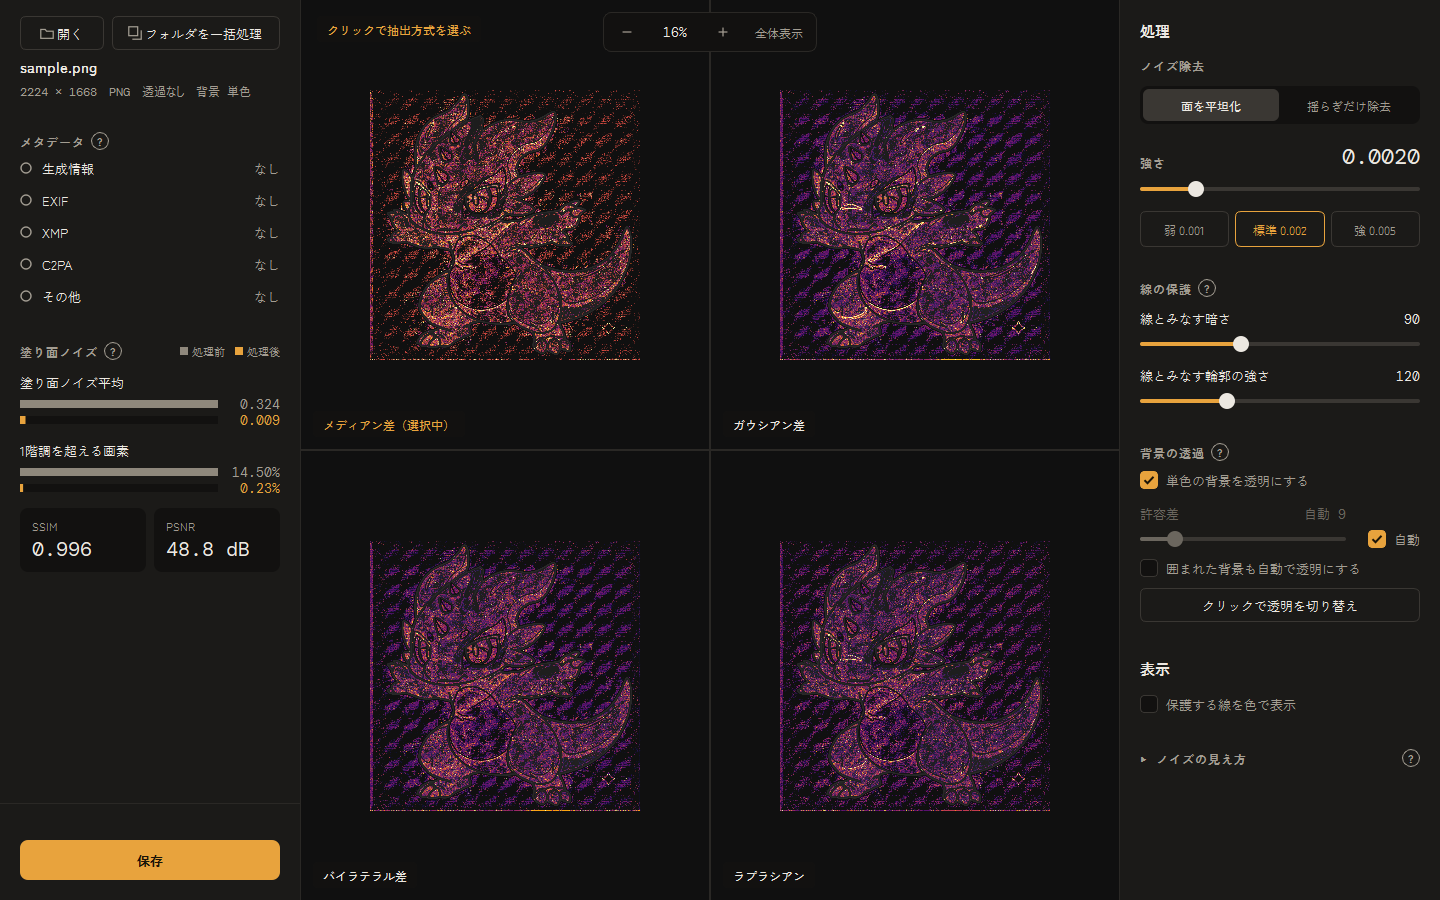
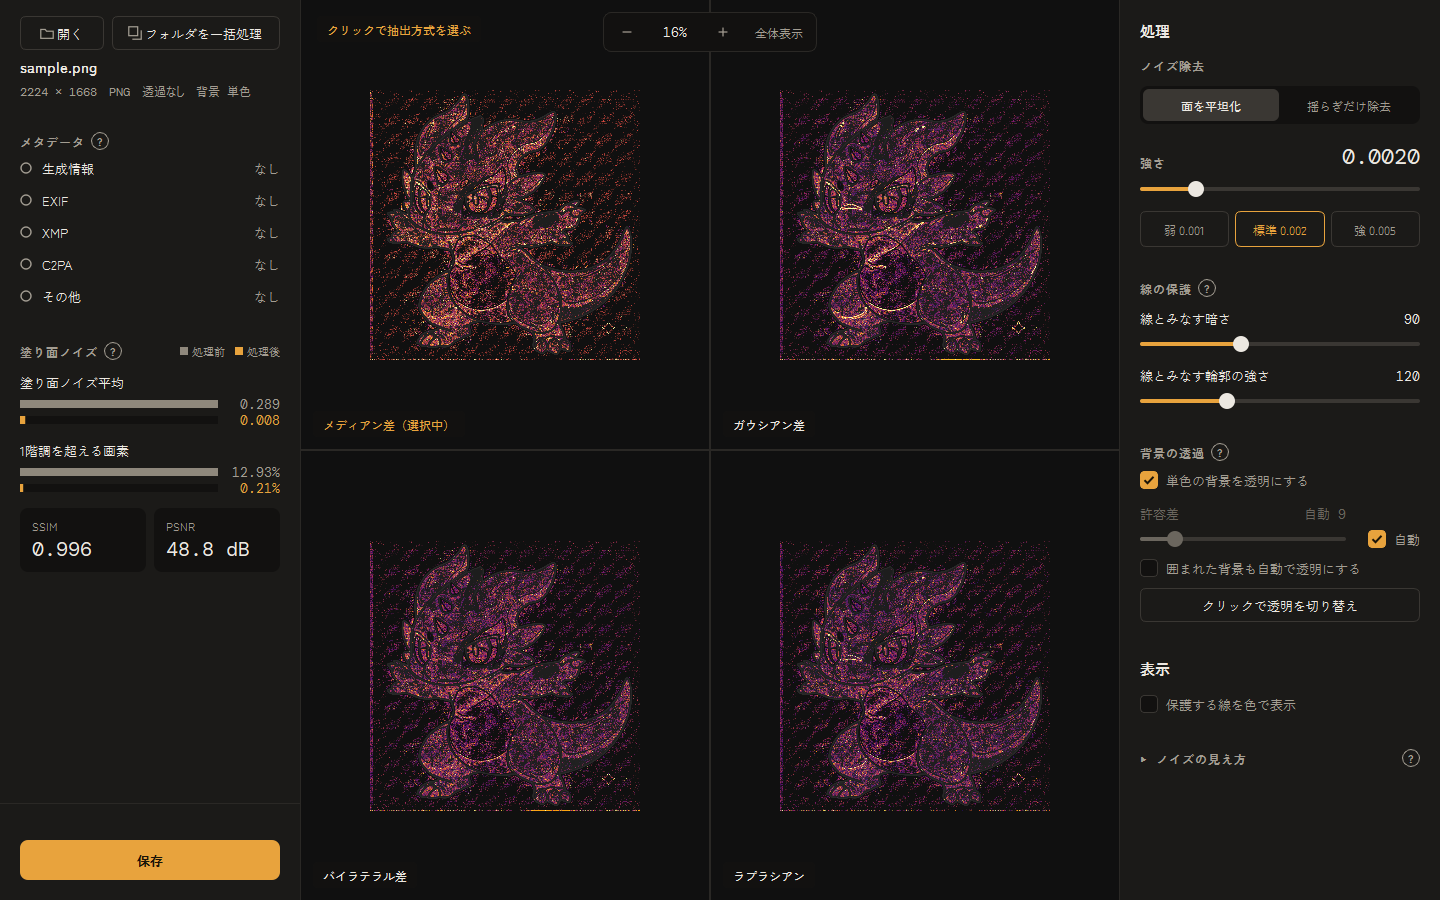
緩いグラデーションの段差をノイズに数えない
処理後に点々と残って見えていたのは、ノイズではなく、緩いグラデーションの1階調ずつの段差の境目だった。
中央値との差がちょうど1になるため、ノイズの数値と表示に点として出ていた。
差が1階調以内で、周りの8画素のうち4つ以上と3色とも同じ値の点は、段差の境目とみなしてノイズに数えない。
ランダムな粒は周りとそろわないので、ほとんど数え落とさない（テストで確認）。

Changed region(s): [[0.5312, 0.5911, 0.7188, 0.9022], [0.5312, 0.0933, 0.7188, 0.4044], [0.25, 0.5911, 0.4375, 0.9022]]

diff --git a/cleaner/noise.py b/cleaner/noise.py
@@ -15,6 +15,11 @@ MEDIAN_SIZE = 7
 GAUSS_SIGMA = 1.5
 BILATERAL = dict(d=7, sigmaColor=8, sigmaSpace=3)   # 塗りの揺らぎ（数階調）だけをならし、線はまたがない
 LAPLACIAN_NORM = np.sqrt(20)   # 4近傍ラプラシアンで、白色ノイズの振幅が元の大きさにそろう係数
+# 緩いグラデーションは1階調ずつの段差になり、段差の境目は周りとの差が1になる。
+# 周りの8画素のうちこの数以上と3色とも同じ値なら、平らな面の一部（段差の境目）とみなしてノイズに数えない。
+# ランダムな粒は周りとそろわないので、ほとんど数え落とさない
+STEP_SAME_NEIGHBORS = 4
+_NEIGHBORS = [(dy, dx) for dy in (-1, 0, 1) for dx in (-1, 0, 1) if (dy, dx) != (0, 0)]
 
 FULL_SCALE = 3.0       # 強さ表示で最大輝度になるノイズ強度（階調）
 SPLIT_SCALE = 1.5      # 明暗・色味の表示で最大輝度になる値。RGB3色の合計より小さく出るため低めにし、両者は同じ尺度にそろえる
@@ -73,7 +78,17 @@ def extract(rgb, algo='median'):
         res = rgb - _smooth(rgb, algo)
     edge = line_mask(rgb)
     res[edge] = 0
+    res[_gradient_steps(rgb, res)] = 0
     return res, edge
+
+
+def _gradient_steps(rgb, res):
+    """緩いグラデーションの段差の境目（差が1階調以内で、周りに同じ値の画素が並んでいる）"""
+    q = np.rint(rgb).astype(np.int16)
+    h, w = q.shape[:2]
+    p = np.pad(q, ((1, 1), (1, 1), (0, 0)), mode='edge')
+    same = sum((p[1 + dy:1 + dy + h, 1 + dx:1 + dx + w] == q).all(2).astype(np.uint8) for dy, dx in _NEIGHBORS)
+    return (np.abs(res) <= 1).all(2) & (same >= STEP_SAME_NEIGHBORS)
 
 
 def magnitude(res):

diff --git a/tests/test_noise_measure.py b/tests/test_noise_measure.py
@@ -1,0 +1,30 @@
+"""ノイズの測り方：グラデーションの段差はノイズに数えず、ランダムな粒は数える"""
+import sys
+from pathlib import Path
+
+import numpy as np
+
+sys.path.insert(0, str(Path(__file__).resolve().parent.parent))
+from cleaner import noise  # noqa: E402
+
+
+def _gradient():
+    """横方向に1階調ずつ上がる、緩いグラデーション（段差の幅は8画素）"""
+    ramp = np.repeat(np.arange(100, 116), 8)[None, :].repeat(96, 0)
+    return np.dstack([ramp, ramp + 10, ramp + 30]).astype(np.uint8)
+
+
+def test_gradient_steps_are_not_noise():
+    for algo in noise.ALGOS:
+        res, edge = noise.extract(_gradient(), algo)
+        mean, over = noise.metrics(res, edge)
+        assert mean < 0.01 and over == 0, algo
+
+
+def test_random_grain_is_still_measured():
+    rng = np.random.default_rng(0)
+    flat = np.full((96, 128, 3), 120, np.int16)
+    grain = np.clip(flat + rng.integers(-1, 2, flat.shape), 0, 255).astype(np.uint8)   # ±1階調の粒
+    res, edge = noise.extract(grain)
+    hit = (noise.magnitude(res) > 0.5)[~edge].mean()
+    assert hit > 0.5   # 粒の大半はノイズとして数える

diff --git a/docs/guide.md b/docs/guide.md
@@ -53,8 +53,8 @@
 
 | | ノイズ平均 | 1階調を超える画素 | SSIM（元画像比） |
 |---|---|---|---|
-| 元画像 | 0.324 | 14.50% | — |
-| 標準（強さ 0.002） | 0.009 | 0.23% | 0.996 |
+| 元画像 | 0.289 | 12.93% | — |
+| 標準（強さ 0.002） | 0.008 | 0.21% | 0.996 |
 
 処理した後もノイズ平均が 0.5 を超えるときは、左に注意が出る（原因と、動かすとよい設定も出す）。線の揺らぎや太さは変わらない。
 
@@ -63,6 +63,7 @@
 ## ノイズの見え方
 
 右の「ノイズの見え方」で、ノイズの取り出し方と見せ方を切り替える。数値は比べられるよう、常にメディアン差で計算する。
+緩いグラデーションの1階調ずつの段差は、ノイズに数えない（周りに同じ値の画素が並んでいる点は、段差の境目とみなす）。
 
 | 抽出 | 特徴 |
 |---|---|
